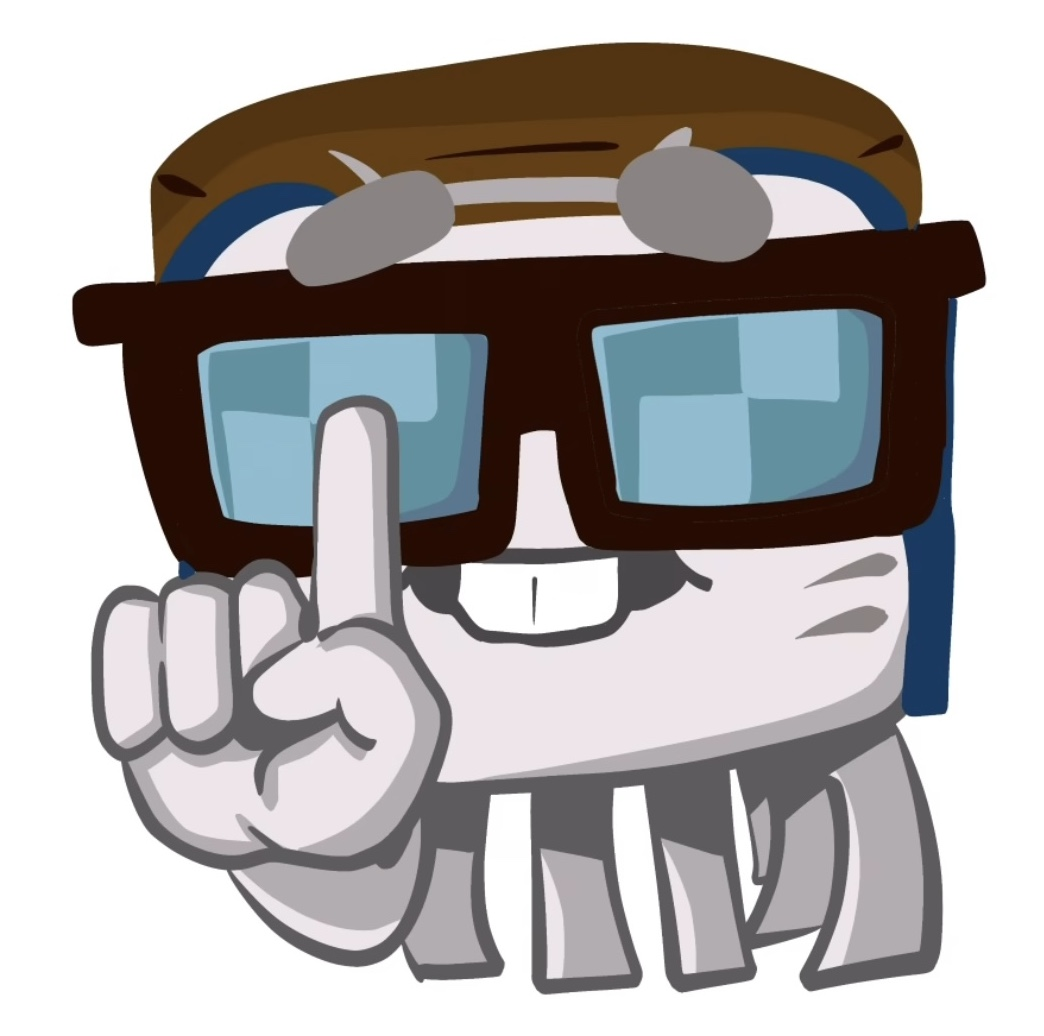
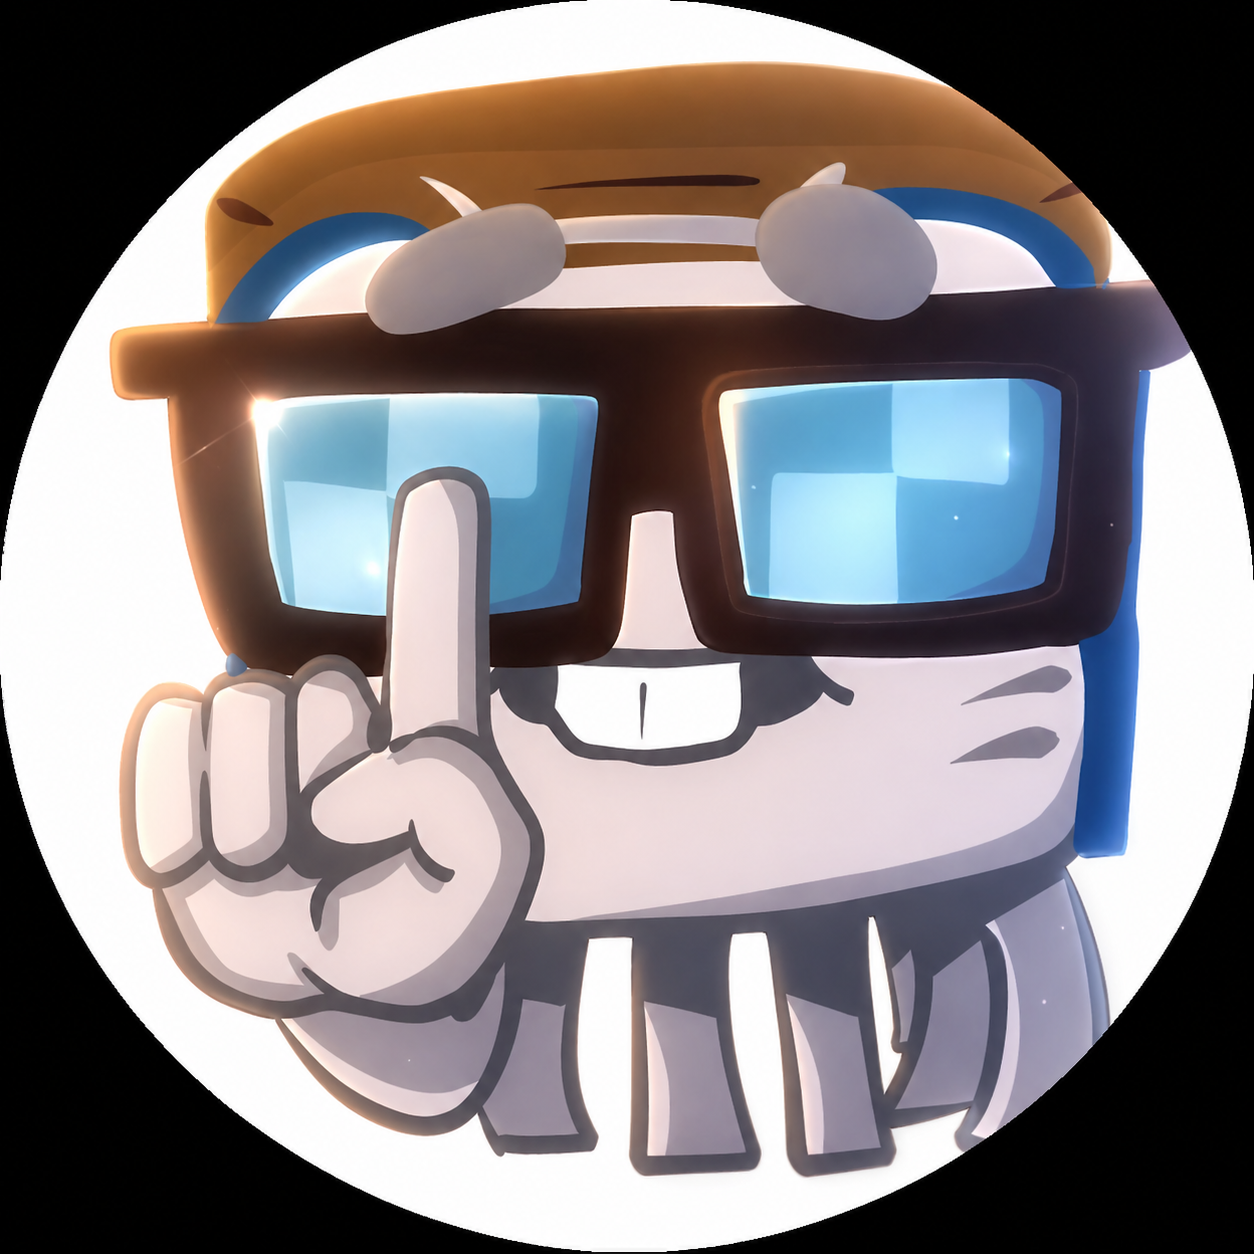
change in tree link

diff --git a/link-tree-site/styles.css b/link-tree-site/styles.css
@@ -24,11 +24,19 @@ html, body {
   
 }
 
-
+#copyMail {
+  background-color: white !important;
+  color: black !important;
+}
+.separator {
+  width: 90%;
+  background-color: white;
+  height: 2px;
+}
 
 h1 {
   font-family: "0xProto";
-  background-color: rgba(46, 45, 45, 0.413);
+  background-color: rgba(0, 0, 0, 0.413);
   width: fit-content;
   padding: 0.2em;
 }
@@ -39,13 +47,15 @@ h1 {
   cursor: pointer;
   
 }
-
-#citation {
-    color: white;
+#citation, h5, h3 {
+  color: white;
     font-family: "VCR";
+    
+}
+#citation h3 {
     font-size: 1.4em;
 }
-#citationContainer {
+#citationContainer, #aboutMe {
   background: rgba(255, 255, 255, 0.2);
   backdrop-filter: blur(10px);
   width: 90%;
@@ -53,6 +63,7 @@ h1 {
   padding: 0.4em;
   text-align: center;
 }
+
 #link a[href*="youtube"] {
   background-color: #FF0033;
   color: white;
@@ -121,7 +132,7 @@ h1 {
     padding: 0.2em;
   }
   #me {
-    max-width: 50%;
+    max-width: 40%;
   }
   #meContainer {
     margin : 0 auto;
@@ -129,20 +140,31 @@ h1 {
     display: flex;
     flex-direction: column;
     align-items: center;
-    padding-bottom: 0.4em;
+    padding-bottom: 1em;
+  }
+
+  #pseudo {
+    margin-bottom: 0.4em;
   }
 
   #citationContainer {
     border-radius: 20px 20px 0px 0px;
+  }
+  #aboutMe {
+    border-radius: 20px 20px 20px 20px;
   }
   #link {
     border-radius: 0px 0px 20px 20px;
   }
 
 
-#link .item i {
-  font-size: 1.4rem;
-}
+  #link .item i {
+    font-size: 1.4rem;
+  }
+
+  #aboutMe {
+    margin-top:1em;
+  }
 
 }
 #link .item:hover {
@@ -174,6 +196,7 @@ h1 {
     grid-column: 1 / 2;
     grid-row: 1 / 2;
   }
+  
 
   #meContainer h1 {
     margin: 0;
@@ -186,28 +209,51 @@ h1 {
     border-radius: 50%;
   }
 
+  #aboutMe {
+    width: 80%;
+    gap: 10px;
+    
+    grid-column: 1 / 3;  
+    grid-row: 4 / 4;     
+    border-radius: 20px;
+    width: 90%;
+    margin: 0 auto;
+  }
+
   #citationContainer {
     grid-column: 2 / 3;
-    grid-row: 1 / 2; 
+    grid-row: 1/ 2; 
     display: flex;
     flex-direction: column;
     justify-content: center;
     text-align: center;
     align-items: center;
     margin-top: 6em;
+    padding: 3em;
     border-radius: 40px;
+    border-radius: 10px;
   }
 
   #link {
     display: flex;
     flex-wrap: wrap;
-    justify-content: center; 
+    justify-content: space-evenly; 
     gap: 10px;
+    
     grid-column: 1 / 3;  
     grid-row: 2 / 3;     
-    border-radius: 40px;
-    width: fit-content;
+    border-radius: 20px;
+    width: 90%;
     margin: 0 auto;
+  }
+
+  .separator {
+    display: flex;
+    margin: 0 auto;
+    grid-column: 1 / 3;
+    grid-row: 3/ 3; 
+    display: flex;
+    width: 90%;
   }
 
   #link .item {

diff --git a/link-tree-site/index.html b/link-tree-site/index.html
@@ -21,13 +21,29 @@
     <h3 id="citation"></h3>
   </div>
 
+  <div class="separator"></div>
+
 
 
   <div id="link">
     <a href="https://www.youtube.com/@OrA-creation" class="item"><i class="fa-brands fa-youtube"></i> YouTube</a>
     <a href="https://github.com/OrAxelerator" class="item"><i class="fa-brands fa-github"></i> GitHub</a>
+    <a href="https://discord.gg/hntayYCdwS" class="item"><i class="fa-brands fa-discord"></i> Discord</a>
+    <a href="https://discord.gg/hntayYCdwS" class="item" id="copyMail"><i class="fa-solid fa-envelope"></i> Copier Mail</a>
     
   </div>
+
+
+  <div id="aboutMe">
+    <h3>Qui suis je ?</h3>  
+    <br>
+    <h5>Juste un nerd qui fait des vidéo youtube et qui code.</h5>
+
+    <br>
+    <h3>Mon porfolio :</h3>
+    <h5>**underconstruction**</h5>
+  </div>
+
 </div>
 
 
@@ -76,6 +92,21 @@ me.addEventListener('click', () => {
 
   document.body.style.background = `linear-gradient(360deg, ${color1}, ${color2})`;
 });
+
+
+const copyBtn = document.getElementById("copyMail");
+
+copyBtn.addEventListener("click", (e) => {
+  e.preventDefault();
+  navigator.clipboard.writeText("[email redacted]")
+    .then(() => {
+      copyBtn.textContent = "Mail copié !";
+      setTimeout(() => {
+        copyBtn.innerHTML = '<i class="fa-solid fa-envelope"></i> Copier Mail';
+      }, 1500);
+    });
+});
+
 
 </script>
 